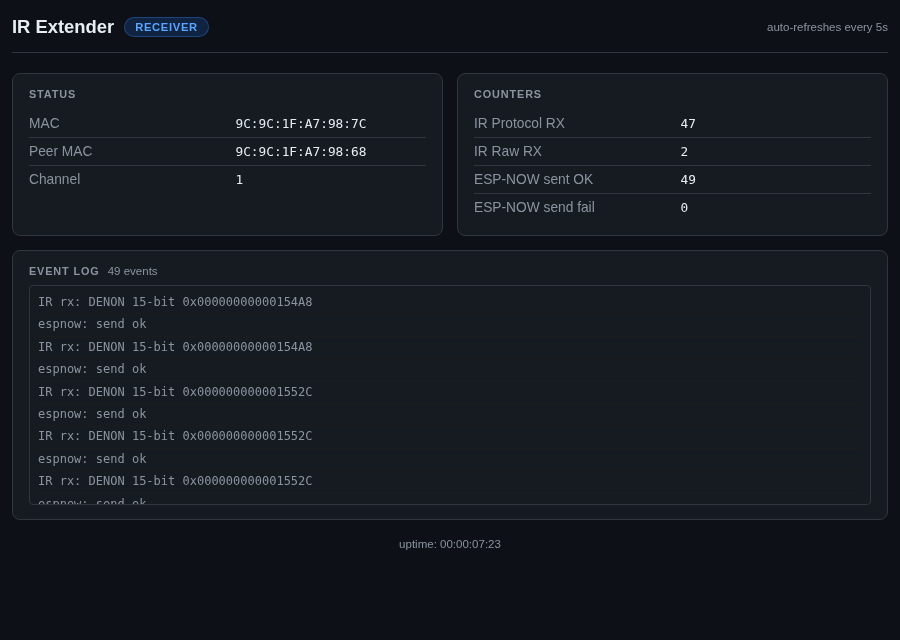
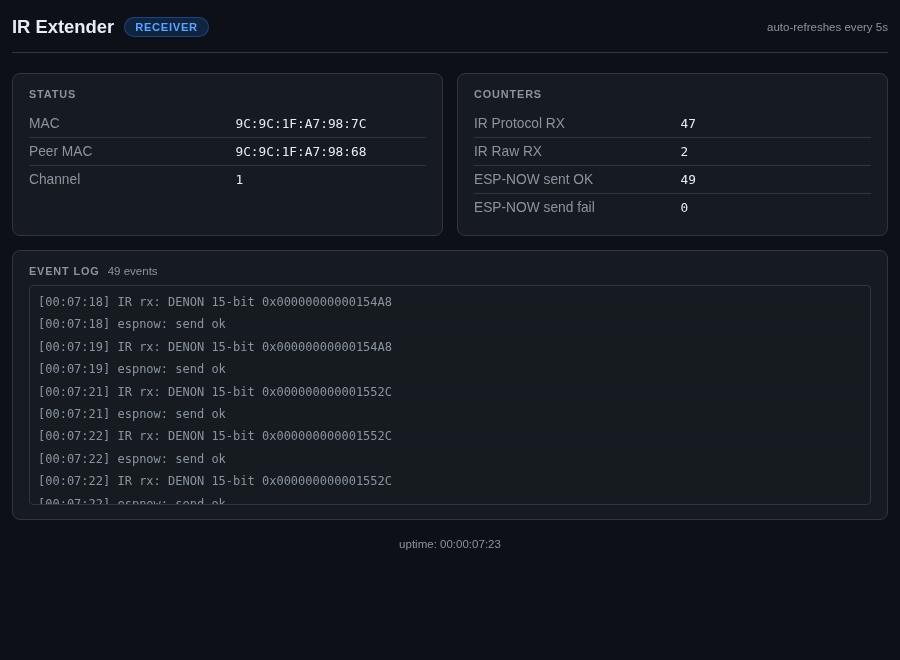
feat: add uptime timestamps to web UI event log
Each log entry is now prefixed with [HH:MM:SS] based on millis() at
the time the event was pushed. The entry buffer grew from 80 to 96
bytes to accommodate the 11-char prefix while preserving message length.

diff --git a/include/log_buffer.h b/include/log_buffer.h
@@ -3,9 +3,12 @@
 #include <string.h>
 #include <stdarg.h>
 #include <stdio.h>
+#include <Arduino.h>
 
+// Entry layout: "[HH:MM:SS] <message>" — 11-char prefix + message.
 #define LOG_BUF_ENTRIES   30u
-#define LOG_BUF_ENTRY_LEN 80u
+#define LOG_BUF_ENTRY_LEN 96u
+#define LOG_TIMESTAMP_LEN 11u  // "[HH:MM:SS] "
 
 // Circular ring buffer — s_logHead points to the next write slot.
 // When full the oldest entry is overwritten.
@@ -13,15 +16,20 @@ static char     s_logBuf[LOG_BUF_ENTRIES][LOG_BUF_ENTRY_LEN];
 static uint8_t  s_logHead  = 0;
 static uint32_t s_logTotal = 0;  // monotonic count of entries ever pushed
 
+// Prepend "[HH:MM:SS] " uptime timestamp, then store msg (truncated to fit).
 inline void logPush(const char* msg) {
-    strncpy(s_logBuf[s_logHead], msg, LOG_BUF_ENTRY_LEN - 1);
-    s_logBuf[s_logHead][LOG_BUF_ENTRY_LEN - 1] = '\0';
+    uint32_t s = millis() / 1000;
+    uint32_t h = s / 3600; s %= 3600;
+    uint32_t m = s / 60;   s %= 60;
+    snprintf(s_logBuf[s_logHead], LOG_BUF_ENTRY_LEN,
+        "[%02u:%02u:%02u] %s", h, m, s, msg);
     s_logHead = (s_logHead + 1) % LOG_BUF_ENTRIES;
     s_logTotal++;
 }
 
+// Formatted push — message portion is capped at (LOG_BUF_ENTRY_LEN - LOG_TIMESTAMP_LEN - 1) chars.
 inline void logPushf(const char* fmt, ...) {
-    char buf[LOG_BUF_ENTRY_LEN];
+    char buf[LOG_BUF_ENTRY_LEN - LOG_TIMESTAMP_LEN];
     va_list args;
     va_start(args, fmt);
     vsnprintf(buf, sizeof(buf), fmt, args);

diff --git a/src/main.cpp b/src/main.cpp
@@ -306,7 +306,7 @@ void loop() {
         Serial.print(irResult.value, HEX);
         Serial.println();
 
-        char logMsg[LOG_BUF_ENTRY_LEN];
+        char logMsg[LOG_BUF_ENTRY_LEN - LOG_TIMESTAMP_LEN];
         snprintf(logMsg, sizeof(logMsg), "IR rx: %s %u-bit 0x%08X%08X",
             typeToString(irResult.decode_type, irResult.repeat).c_str(),
             irResult.bits,
@@ -385,7 +385,7 @@ void onReceive(uint8_t* /*mac*/, uint8_t* data, uint8_t len) {
             Serial.print(value, HEX);
             Serial.println();
 
-            char logMsg[LOG_BUF_ENTRY_LEN];
+            char logMsg[LOG_BUF_ENTRY_LEN - LOG_TIMESTAMP_LEN];
             snprintf(logMsg, sizeof(logMsg), "IR tx: %s %u-bit 0x%08X%08X",
                 typeToString(static_cast<decode_type_t>(protocol), false).c_str(),
                 bits,
